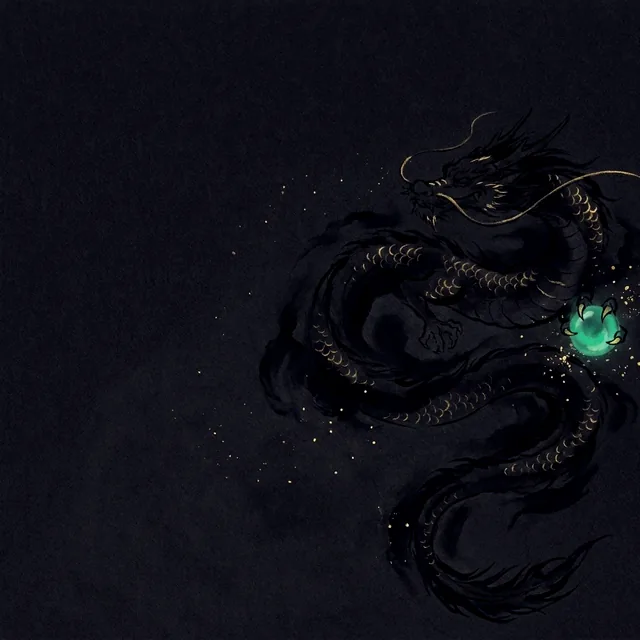
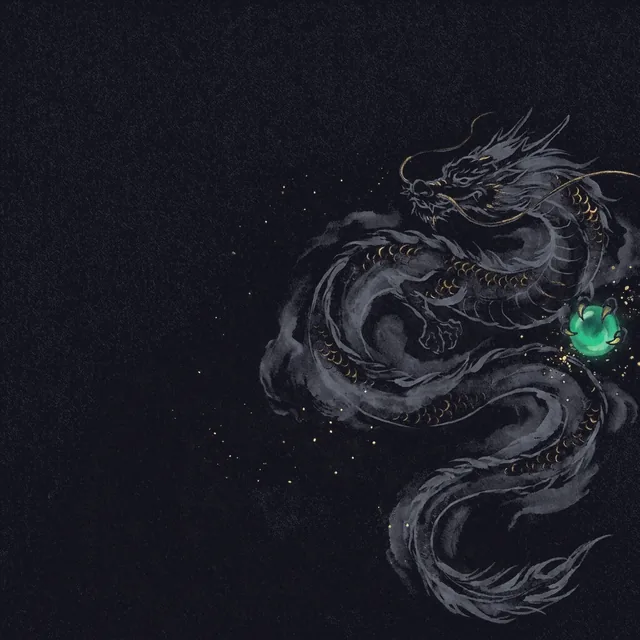
Ryūjin ghost in silver ink; verdict row fits 360px phones
The Ryūjin master is black ink on grey paper, so normalising the paper to the card colour pushed
the strokes below it and mix-blend-mode: screen had nothing to show; only the gold scales and the
orb came through. The ink's darkness is now folded into a cool grey (silver ink), the way the other
five masters carry their light washes, so the dragon reads on its card and on the share card.

Under 400px the three verdict figures get a touch smaller with a tighter gap so they stay on one
line beside 360px edges instead of overflowing the chart block.

Claude-Session: https://claude.ai/code/session_01AQnyZ9cyG8LmAZR4yoj7tu

Changed region(s): [[0.4062, 0.1562, 1.0, 0.9688], [0.9688, 0.5, 1.0, 0.5312], [0.6875, 0.6562, 0.7188, 0.6875]]

diff --git a/src/App.css b/src/App.css
@@ -2243,6 +2243,19 @@ footer a:hover {
     white-space: nowrap;
   }
 }
+@media (max-width: 400px) {
+  /* 360px phones: the three figures stay on one line by getting a touch smaller */
+  .chart-verdict {
+    column-gap: 0.6rem;
+  }
+  .verdict-fig {
+    font-size: 0.75rem;
+  }
+  .verdict-fig b {
+    font-size: 0.875rem;
+    margin-right: 0.25rem;
+  }
+}
 
 /* Motion preference: nothing moves on hover, entrances settle at once */
 @media (prefers-reduced-motion: reduce) {
